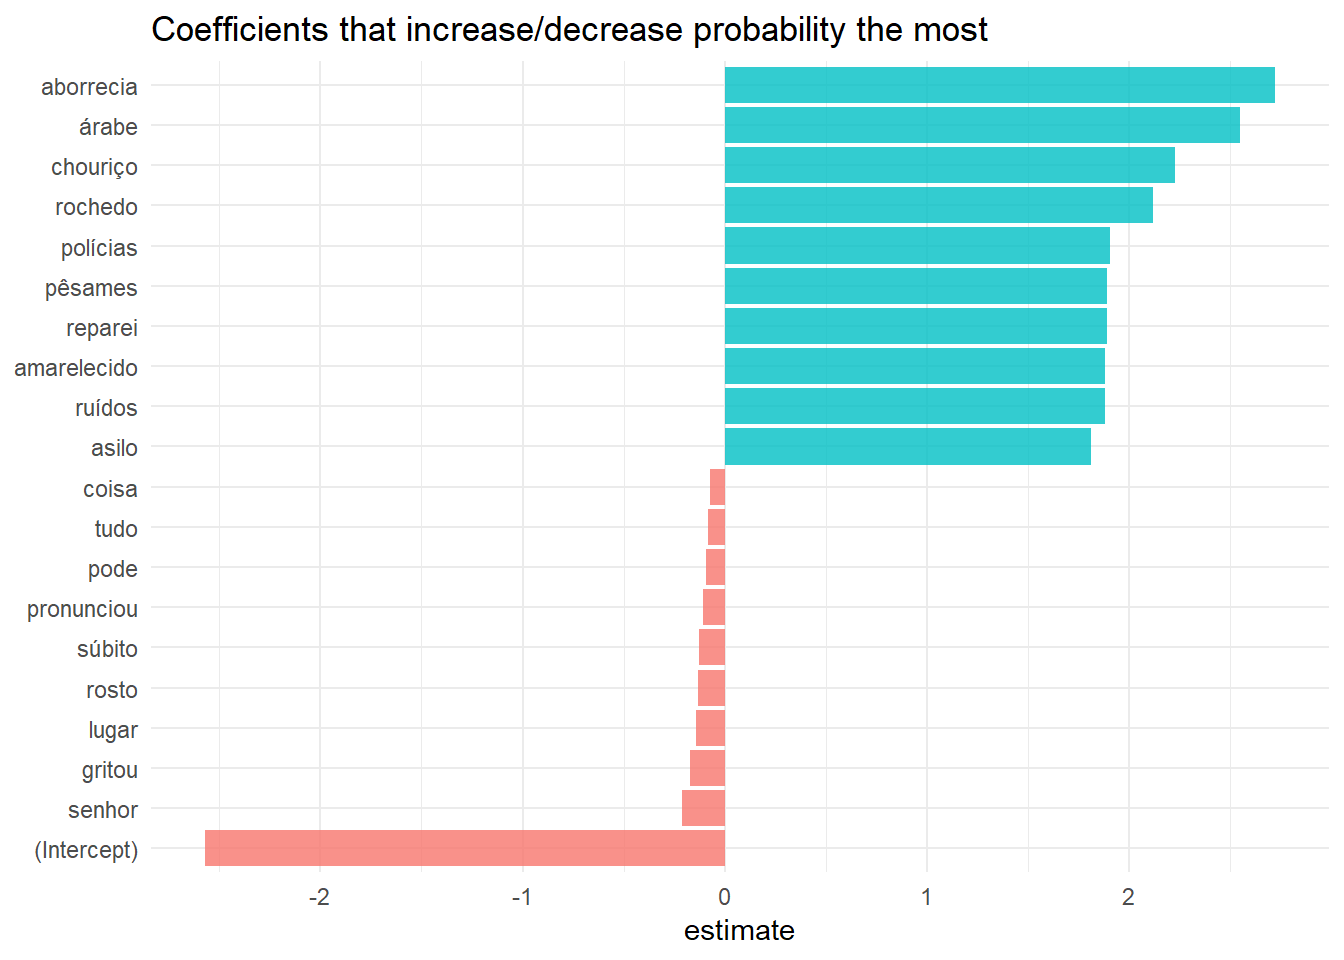
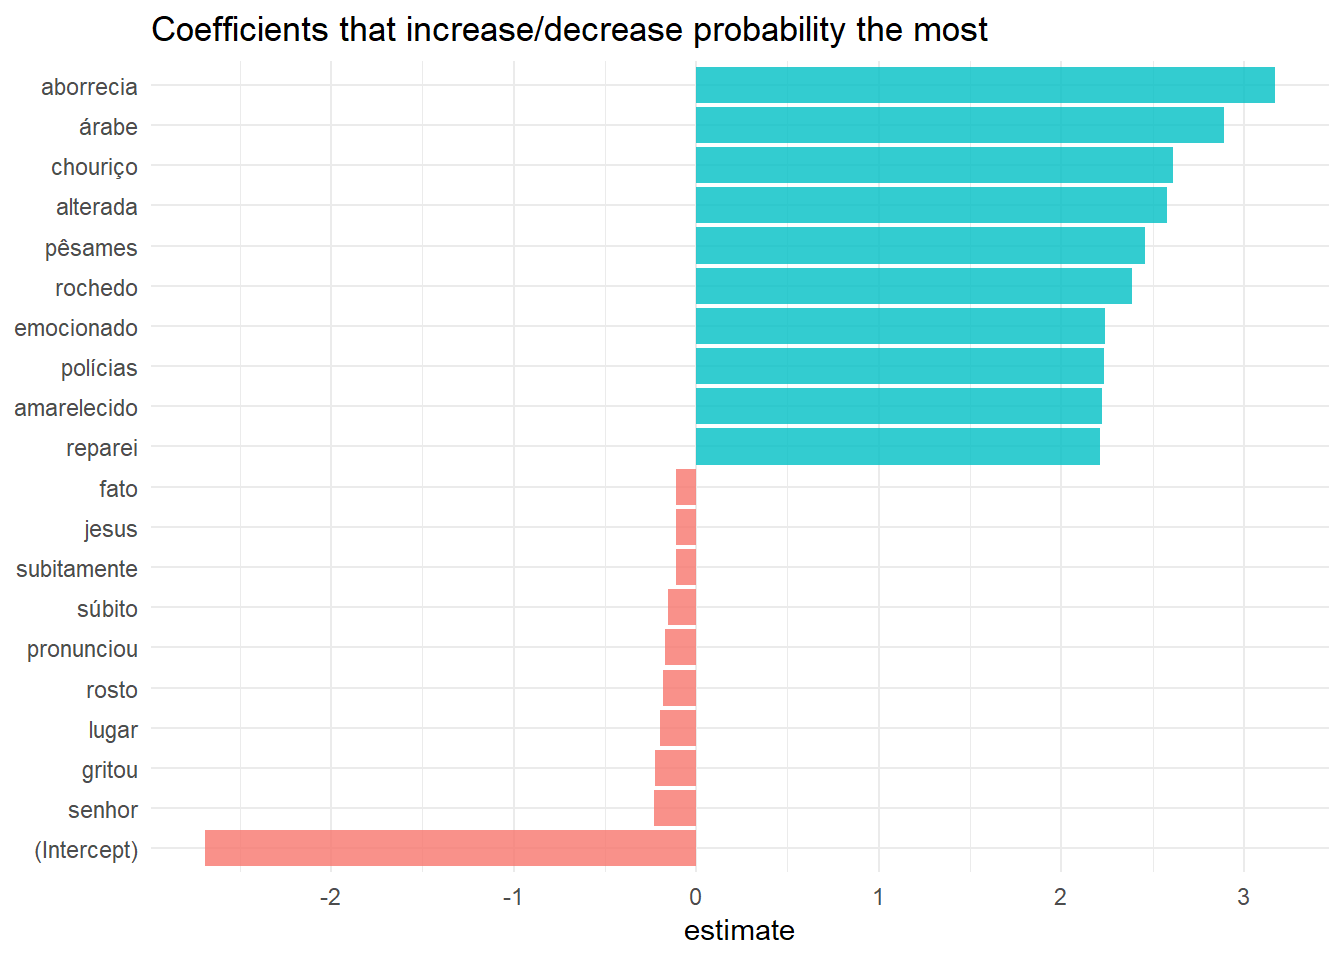
commit

diff --git a/public/2019/05/elastic-net-binomial-para-textos/index.html b/public/2019/05/elastic-net-binomial-para-textos/index.html
@@ -261,7 +261,7 @@ head(estrangeiro_)</code></pre>
 <pre class="r"><code>id &lt;- max(estrangeiro_$paragrafo)</code></pre>
 </div>
 <div id="crime-e-castigo" class="section level3">
-<h3>Crime e Castigo</h3>
+<h3>Crime e castigo</h3>
 <pre class="r"><code>crime &lt;- x1$data[[1]]
 
 crime_ &lt;- crime %&gt;%  
@@ -359,8 +359,8 @@ summary(model)</code></pre>
 ## nzero          99 -none- numeric  
 ## name            1 -none- character
 ## glmnet.fit     13 lognet list     
-## fit.preval 425900 -none- numeric  
-## foldid       4259 -none- numeric  
+## fit.preval 423400 -none- numeric  
+## foldid       4234 -none- numeric  
 ## lambda.min      1 -none- numeric  
 ## lambda.1se      1 -none- numeric</code></pre>
 <p>Observamos, então, as palavras que mais contribuem para que dado paragráfo seja, ou não, do livro: O Estrangeiro.</p>
@@ -406,14 +406,14 @@ classifications &lt;- aux %&gt;%
 
 head(classifications)</code></pre>
 <pre><code>## # A tibble: 6 x 3
-##   paragrafo score probability
-##       &lt;int&gt; &lt;dbl&gt;       &lt;dbl&gt;
-## 1         3  7.24       0.991
-## 2         4  7.57       0.993
-## 3         6 20.5        1.000
-## 4         7 10.2        1.000
-## 5         8  2.20       0.409
-## 6         9 23.0        1.000</code></pre>
+##   paragrafo  score probability
+##       &lt;int&gt;  &lt;dbl&gt;       &lt;dbl&gt;
+## 1         3  8.46        0.997
+## 2         6  8.95        0.998
+## 3         7 10.2         0.999
+## 4         8  0.802       0.131
+## 5         9 20.0         1.000
+## 6        10 13.5         1.000</code></pre>
 </div>
 <div id="juntando-os-bancos-de-dados-de-classificacao-e-teste" class="section level2">
 <h2>Juntando os bancos de dados de classificação e teste:</h2>
@@ -446,28 +446,28 @@ test &lt;- test %&gt;%
 ## 
 ##              Reference
 ## Prediction    crime estrangeiro
-##   crime        1752          46
-##   estrangeiro   275         416
-##                                          
-##                Accuracy : 0.871          
-##                  95% CI : (0.8572, 0.884)
-##     No Information Rate : 0.8144         
-##     P-Value [Acc &gt; NIR] : 1.87e-14       
-##                                          
-##                   Kappa : 0.6419         
-##                                          
-##  Mcnemar&#39;s Test P-Value : &lt; 2.2e-16      
-##                                          
-##             Sensitivity : 0.8643         
-##             Specificity : 0.9004         
-##          Pos Pred Value : 0.9744         
-##          Neg Pred Value : 0.6020         
-##              Prevalence : 0.8144         
-##          Detection Rate : 0.7039         
-##    Detection Prevalence : 0.7224         
-##       Balanced Accuracy : 0.8824         
-##                                          
-##        &#39;Positive&#39; Class : crime          
+##   crime        1870          38
+##   estrangeiro   267         421
+##                                           
+##                Accuracy : 0.8825          
+##                  95% CI : (0.8695, 0.8947)
+##     No Information Rate : 0.8232          
+##     P-Value [Acc &gt; NIR] : &lt; 2.2e-16       
+##                                           
+##                   Kappa : 0.6625          
+##                                           
+##  Mcnemar&#39;s Test P-Value : &lt; 2.2e-16       
+##                                           
+##             Sensitivity : 0.8751          
+##             Specificity : 0.9172          
+##          Pos Pred Value : 0.9801          
+##          Neg Pred Value : 0.6119          
+##              Prevalence : 0.8232          
+##          Detection Rate : 0.7203          
+##    Detection Prevalence : 0.7350          
+##       Balanced Accuracy : 0.8961          
+##                                           
+##        &#39;Positive&#39; Class : crime           
 ## </code></pre>
 </div>
 

diff --git a/content/post/2019-05-21-elastic-net-binomial-para-textos.html b/content/post/2019-05-21-elastic-net-binomial-para-textos.html
@@ -66,7 +66,7 @@ head(estrangeiro_)</code></pre>
 <pre class="r"><code>id &lt;- max(estrangeiro_$paragrafo)</code></pre>
 </div>
 <div id="crime-e-castigo" class="section level3">
-<h3>Crime e Castigo</h3>
+<h3>Crime e castigo</h3>
 <pre class="r"><code>crime &lt;- x1$data[[1]]
 
 crime_ &lt;- crime %&gt;%  
@@ -164,8 +164,8 @@ summary(model)</code></pre>
 ## nzero          99 -none- numeric  
 ## name            1 -none- character
 ## glmnet.fit     13 lognet list     
-## fit.preval 425900 -none- numeric  
-## foldid       4259 -none- numeric  
+## fit.preval 423400 -none- numeric  
+## foldid       4234 -none- numeric  
 ## lambda.min      1 -none- numeric  
 ## lambda.1se      1 -none- numeric</code></pre>
 <p>Observamos, então, as palavras que mais contribuem para que dado paragráfo seja, ou não, do livro: O Estrangeiro.</p>
@@ -211,14 +211,14 @@ classifications &lt;- aux %&gt;%
 
 head(classifications)</code></pre>
 <pre><code>## # A tibble: 6 x 3
-##   paragrafo score probability
-##       &lt;int&gt; &lt;dbl&gt;       &lt;dbl&gt;
-## 1         3  7.24       0.991
-## 2         4  7.57       0.993
-## 3         6 20.5        1.000
-## 4         7 10.2        1.000
-## 5         8  2.20       0.409
-## 6         9 23.0        1.000</code></pre>
+##   paragrafo  score probability
+##       &lt;int&gt;  &lt;dbl&gt;       &lt;dbl&gt;
+## 1         3  8.46        0.997
+## 2         6  8.95        0.998
+## 3         7 10.2         0.999
+## 4         8  0.802       0.131
+## 5         9 20.0         1.000
+## 6        10 13.5         1.000</code></pre>
 </div>
 <div id="juntando-os-bancos-de-dados-de-classificacao-e-teste" class="section level2">
 <h2>Juntando os bancos de dados de classificação e teste:</h2>
@@ -251,27 +251,27 @@ test &lt;- test %&gt;%
 ## 
 ##              Reference
 ## Prediction    crime estrangeiro
-##   crime        1752          46
-##   estrangeiro   275         416
-##                                          
-##                Accuracy : 0.871          
-##                  95% CI : (0.8572, 0.884)
-##     No Information Rate : 0.8144         
-##     P-Value [Acc &gt; NIR] : 1.87e-14       
-##                                          
-##                   Kappa : 0.6419         
-##                                          
-##  Mcnemar&#39;s Test P-Value : &lt; 2.2e-16      
-##                                          
-##             Sensitivity : 0.8643         
-##             Specificity : 0.9004         
-##          Pos Pred Value : 0.9744         
-##          Neg Pred Value : 0.6020         
-##              Prevalence : 0.8144         
-##          Detection Rate : 0.7039         
-##    Detection Prevalence : 0.7224         
-##       Balanced Accuracy : 0.8824         
-##                                          
-##        &#39;Positive&#39; Class : crime          
+##   crime        1870          38
+##   estrangeiro   267         421
+##                                           
+##                Accuracy : 0.8825          
+##                  95% CI : (0.8695, 0.8947)
+##     No Information Rate : 0.8232          
+##     P-Value [Acc &gt; NIR] : &lt; 2.2e-16       
+##                                           
+##                   Kappa : 0.6625          
+##                                           
+##  Mcnemar&#39;s Test P-Value : &lt; 2.2e-16       
+##                                           
+##             Sensitivity : 0.8751          
+##             Specificity : 0.9172          
+##          Pos Pred Value : 0.9801          
+##          Neg Pred Value : 0.6119          
+##              Prevalence : 0.8232          
+##          Detection Rate : 0.7203          
+##    Detection Prevalence : 0.7350          
+##       Balanced Accuracy : 0.8961          
+##                                           
+##        &#39;Positive&#39; Class : crime           
 ## </code></pre>
 </div>
